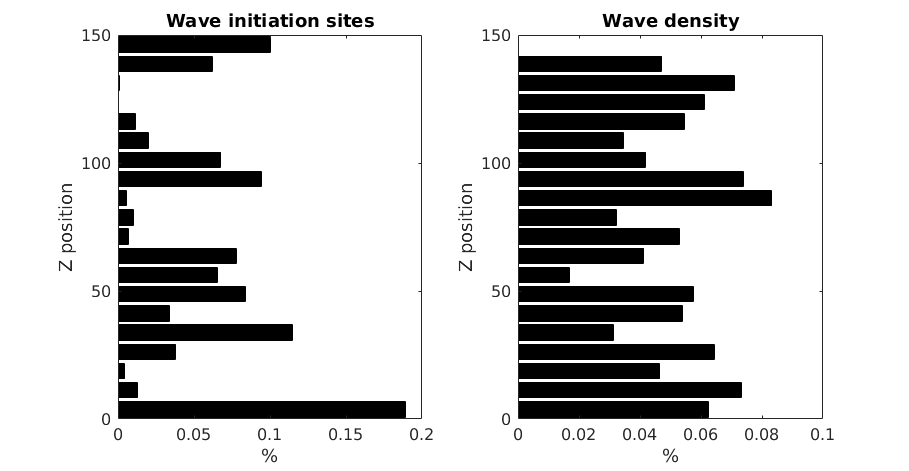
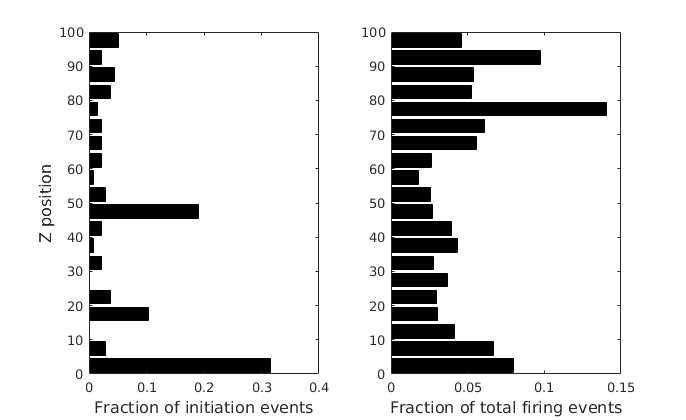
Further paper revisions. Fixed figures for initiation/density correlation.

diff --git a/sync_paper/Delay synchronization.tex b/sync_paper/Delay synchronization.tex
@@ -73,6 +73,7 @@ This is a simplified model of a two-dimensional dynamical system.
 This model has been used to reproduce common neural firing patterns.
 There is MATLAB code available \cite{izzy_code} that implements this neural model with fixed, single-time-step action potential propagation.
 The model parameters for excitatory and inhibitory neurons are shown in Table \ref{tab:izzy_params}.
+We define $\mathcal{U}\{a,b \}$ as a uniform random variable drawn on $[ a,b ] $.
 \begin{table}[!h]
  \caption{Izhekevich model parameters}
  \label{tab:izzy_params}
@@ -98,7 +99,6 @@ The strength for connections from presynaptic excitatory neurons $S_E$ and presy
  S_E &= K \times \mathcal{U}\{0,\frac{1}{2} \} \\
  S_I &= K \times \mathcal{U}\{-1,0 \} 
 \end{align}
-Where $\mathcal{U}\{a,b \}$ is a uniform random variable drawn on $[ a,b ] $.
 The parameter K is used to adjust the overall connection strength: $K=1$ corresponds to the original model in \cite{izzy_code}. 
 \\ \\
 Our model for uniform background stimulus to excitatory neurons $I_E$ and inhibitory neurons $I_I$ is: 
@@ -108,16 +108,14 @@ Our model for uniform background stimulus to excitatory neurons $I_E$ and inhibi
 \end{align}
 The parameter $M$ is used to adjust the overal strength of the stimulus.
 \\ \\
-Simulations are run with a $0.5~ms$ time step except where noted.
-The traveling wave behavior looks qualitatively similar at time steps from $1~ms$ down to $10~\mu s$ (Figure \ref{fig:time_step}).
-Some parameters of interest such as propagation speed can depend on the time step.
-Using a common time step and a sufficient number of Monte Carlo trials ensures that the measured relationships are valid, i.e. the dependence of propagation velocity on column topology.
-We do not attempt to determine the absolute parameter values that would be measured in a specific biological system.
+To examine the speed of the traveling waves we stimulated the lowest 5 layers of neurons in the column with a step stimulus lasting 20 ms starting at $t=20~ms$..
+This generates a single traveling wave with a determined start time, simplifying the propagation velocity measurement.
+A typical stimulated wave is shown in Figure \ref{fig:wave_example}.
 \begin{figure}[!htb]
+ \caption{Single traveling wave resulting from a step stimulus at the bottom of the column.}
+ \label{fig:wave_example}
  \centering
- \includegraphics[width=\textwidth]{fig/TimeStepEffect}
-  \caption{A traveling wave experiment at 4 different time scales. The qualitative behavior is the same, but longer time steps result in slower propagation.}
- \label{fig:time_step}
+   \includegraphics[width=0.5\textwidth]{fig/TypicalWave}
 \end{figure}
 \\ \\
 We capture the firing events from all neurons in each simulation.
@@ -144,15 +142,14 @@ We then identify and label the traveling wave structures that evolve over time a
 \\
 Several useful measurements can be extracted from the labeled wave data, including the wave start positions and wave propagation speed.
 We define the ``wave firing fraction`` as the fraction of the neuron firing events that are associated with the labeled traveling waves.
-\\
-To examine the speed of the traveling waves we stimulated the lowest 5 layers of neurons in the column with a step stimulus lasting 20 ms starting at $t=20~ms$..
-This generates a single traveling wave with a determined start time, simplifying the propagation velocity measurement.
-A typical stimulated wave is shown in Figure \ref{fig:wave_example}.
+\\ \\
+Simulations are run with a $0.5~ms$ time step except where noted.
+The traveling wave behavior looks qualitatively similar at time steps from $1~ms$ down to $10~\mu s$ (Figure \ref{fig:time_step}).
 \begin{figure}[!htb]
- \caption{Single traveling wave resulting from a step stimulus at the bottom of the column.}
- \label{fig:wave_example}
  \centering
-   \includegraphics[width=0.5\textwidth]{fig/TypicalWave}
+ \includegraphics[width=\textwidth]{fig/TimeStepEffect}
+  \caption{A traveling wave experiment at 4 different time scales. The qualitative behavior is the same.}
+ \label{fig:time_step}
 \end{figure}
 
 
@@ -190,6 +187,9 @@ As the connection strength increases nearly all neuron firing events are associa
  \label{fig:conn_fraction}
 \end{figure}
 \\
+We observe that traveling waves annihilate each other when they meet.
+The annihilation effects can be explained by the refractory period of the neurons.
+Neurons that are activated by one traveling wave will be hyperpolarized and less likely to fire if another traveling waves arrives within a short time period.
 
 \subsection{Delay}
 To investigate the impact of delay we simulate a column with complete connectivity corresponing to $\lambda \rightarrow \infty$: all neurons are connected with probability 1 to all other neurons.
@@ -248,12 +248,7 @@ We see that both the delay constant and the column topology influence the propag
 Increasing the inter-neuron actiona potential delay slows the traveling wave propagation.
 Waves travel faster in columns with larger cross-sections. 
 
-\subsection{Wave Initiation and Annihilation}
-We observe both initiation and annihilation of traveling waves in our simulations.
-These effects can be clearly seen in Figure \ref{fig:wave_analysis}.
-The annihilation effects can be explained by the refractory period of the neurons.
-Neurons that are activated by one traveling wave will be hyperpolarized and less likely to fire if another traveling waves arrives within a short time period.
-\\
+\subsection{Wave Initiation}
 It appears that columns have preferential wave initiation sites.
 Figure \ref{fig:wave_initiation} shows all the wave initiation sites for 100 simulations of a column.
 It is clear that traveling waves are more likely to begin at certain regions in the column.
@@ -283,7 +278,7 @@ The wave initiation sites and wave density of the same column are shown in figur
 \end{figure}
 There appears to be an anticorrelation between wave density under a step stimulus and the likelihood of wave initiation under a uniform background stmiulus.
 To test this hypothesis we create 100 columns, applied both background stimulus and step stimulus, and measured the correlation between wave inititation and wave density at the positions of the column (Figure \ref{fig:initiation_density_corr}).
-Although there is substantial variation between columns we measure a consistently negative correlation coefficient (mean -0.13, std 0.21).
+Although there is substantial variation between columns we measure a consistently negative correlation coefficient (mean -0.18, std 0.20).
 \begin{figure}[!htb]
  \caption{Correlation between wave initiation and wave density.}
  \label{fig:initiation_density_corr}

diff --git a/sim/lsm/SingleWaveCharacterization.m b/sim/lsm/SingleWaveCharacterization.m
@@ -54,7 +54,7 @@ waveSizes = []; waveFractions = []; waveSlopes = [];
 %figure(20); subplot(3,3,1);
 vall = []; uall = [];
 min_ccf = 1;
-for jj=1:50
+for jj=1:100
     %[pt, v, firings, hb] = ImpulseResponse(2, 1);
     %Make column
     [a,b,c,d, S, delays, ecn] = makeColumnParameters(structure, connectivity, delay);
@@ -107,6 +107,7 @@ for jj=1:50
         Smin = S;
         delaysmin = delays;
         ecnmin = ecn;
+        min_ccf = ccf_all(jj);
     end
     %figure(20); subplot(3,3,jj); barh(2.5:5:97.5, hbins./sum(hbins),'k')
     
@@ -136,6 +137,7 @@ ecn = ecnmin;
 fscale = firings(:,2)/(width*height);
 [bins, edges] = histcounts(fscale, 0:layers/nbins:layers );
 hbins = hbins + bins;
+stepFire = firings;
 
 %Column background response
 [v, vall, u, uall, firings] = izzy_net(vinit,uinit,dt, length(t), a, b, c, d, S, delays, stBackground);
@@ -147,11 +149,34 @@ for labels = 1:length(wl)
     startPos = [startPos, wp(idx)];
 end 
 
+%Plot wave initiation sites with histogram
 figure; subplot(1,2,1); plot(startTimes, startPos, 'ko');
+ylabel('Z position', 'FontSize', 12)
+xlabel('Time (s)', 'FontSize', 12)
+set(gca, 'FontSize',12)
 fbins = histcounts(startPos, 0:layers/nbins:layers);
 subplot(1,2,2); barh(edges(1:end-1)+edges(2)/2, fbins./sum(fbins), 'k');
-figure; subplot(1,2,1); barh(edges(1:end-1)+edges(2)/2, fbins./sum(fbins), 'k');
+xlabel('Fraction of initiation events', 'FontSize', 12)
+set(gca, 'FontSize',12)
+
+%plot density histogram
+figure; subplot(1,2,1); plot(stepFire(:,1)./1000, stepFire(:,2)./(width*height), 'k.');
+ylabel('Z position', 'FontSize', 12)
+xlabel('Time (s)', 'FontSize', 12)
+set(gca, 'FontSize',12)
 subplot(1,2,2); barh(edges(1:end-1)+edges(2)/2, hbins./sum(hbins),'k')
+xlabel('Fraction of total firing events', 'FontSize', 12)
+set(gca, 'FontSize',12) 
+
+%Plot wave initiation and density histograms together
+figure; subplot(1,2,1); barh(edges(1:end-1)+edges(2)/2, fbins./sum(fbins), 'k');
+xlabel('Fraction of initiation events', 'FontSize', 12)
+ylabel('Z position', 'FontSize', 12)
+subplot(1,2,2); barh(edges(1:end-1)+edges(2)/2, hbins./sum(hbins),'k')
+xlabel('Fraction of total firing events', 'FontSize', 12)
+
 ccf = corrcoef(fbins(2:end), hbins(2:end));
 ccf_all(jj) = ccf(1,2);
-title(['Correlation coefficient ', num2str(ccf(1,2))]);
+
+figure; plot(ccf_all, 'k.');
+
